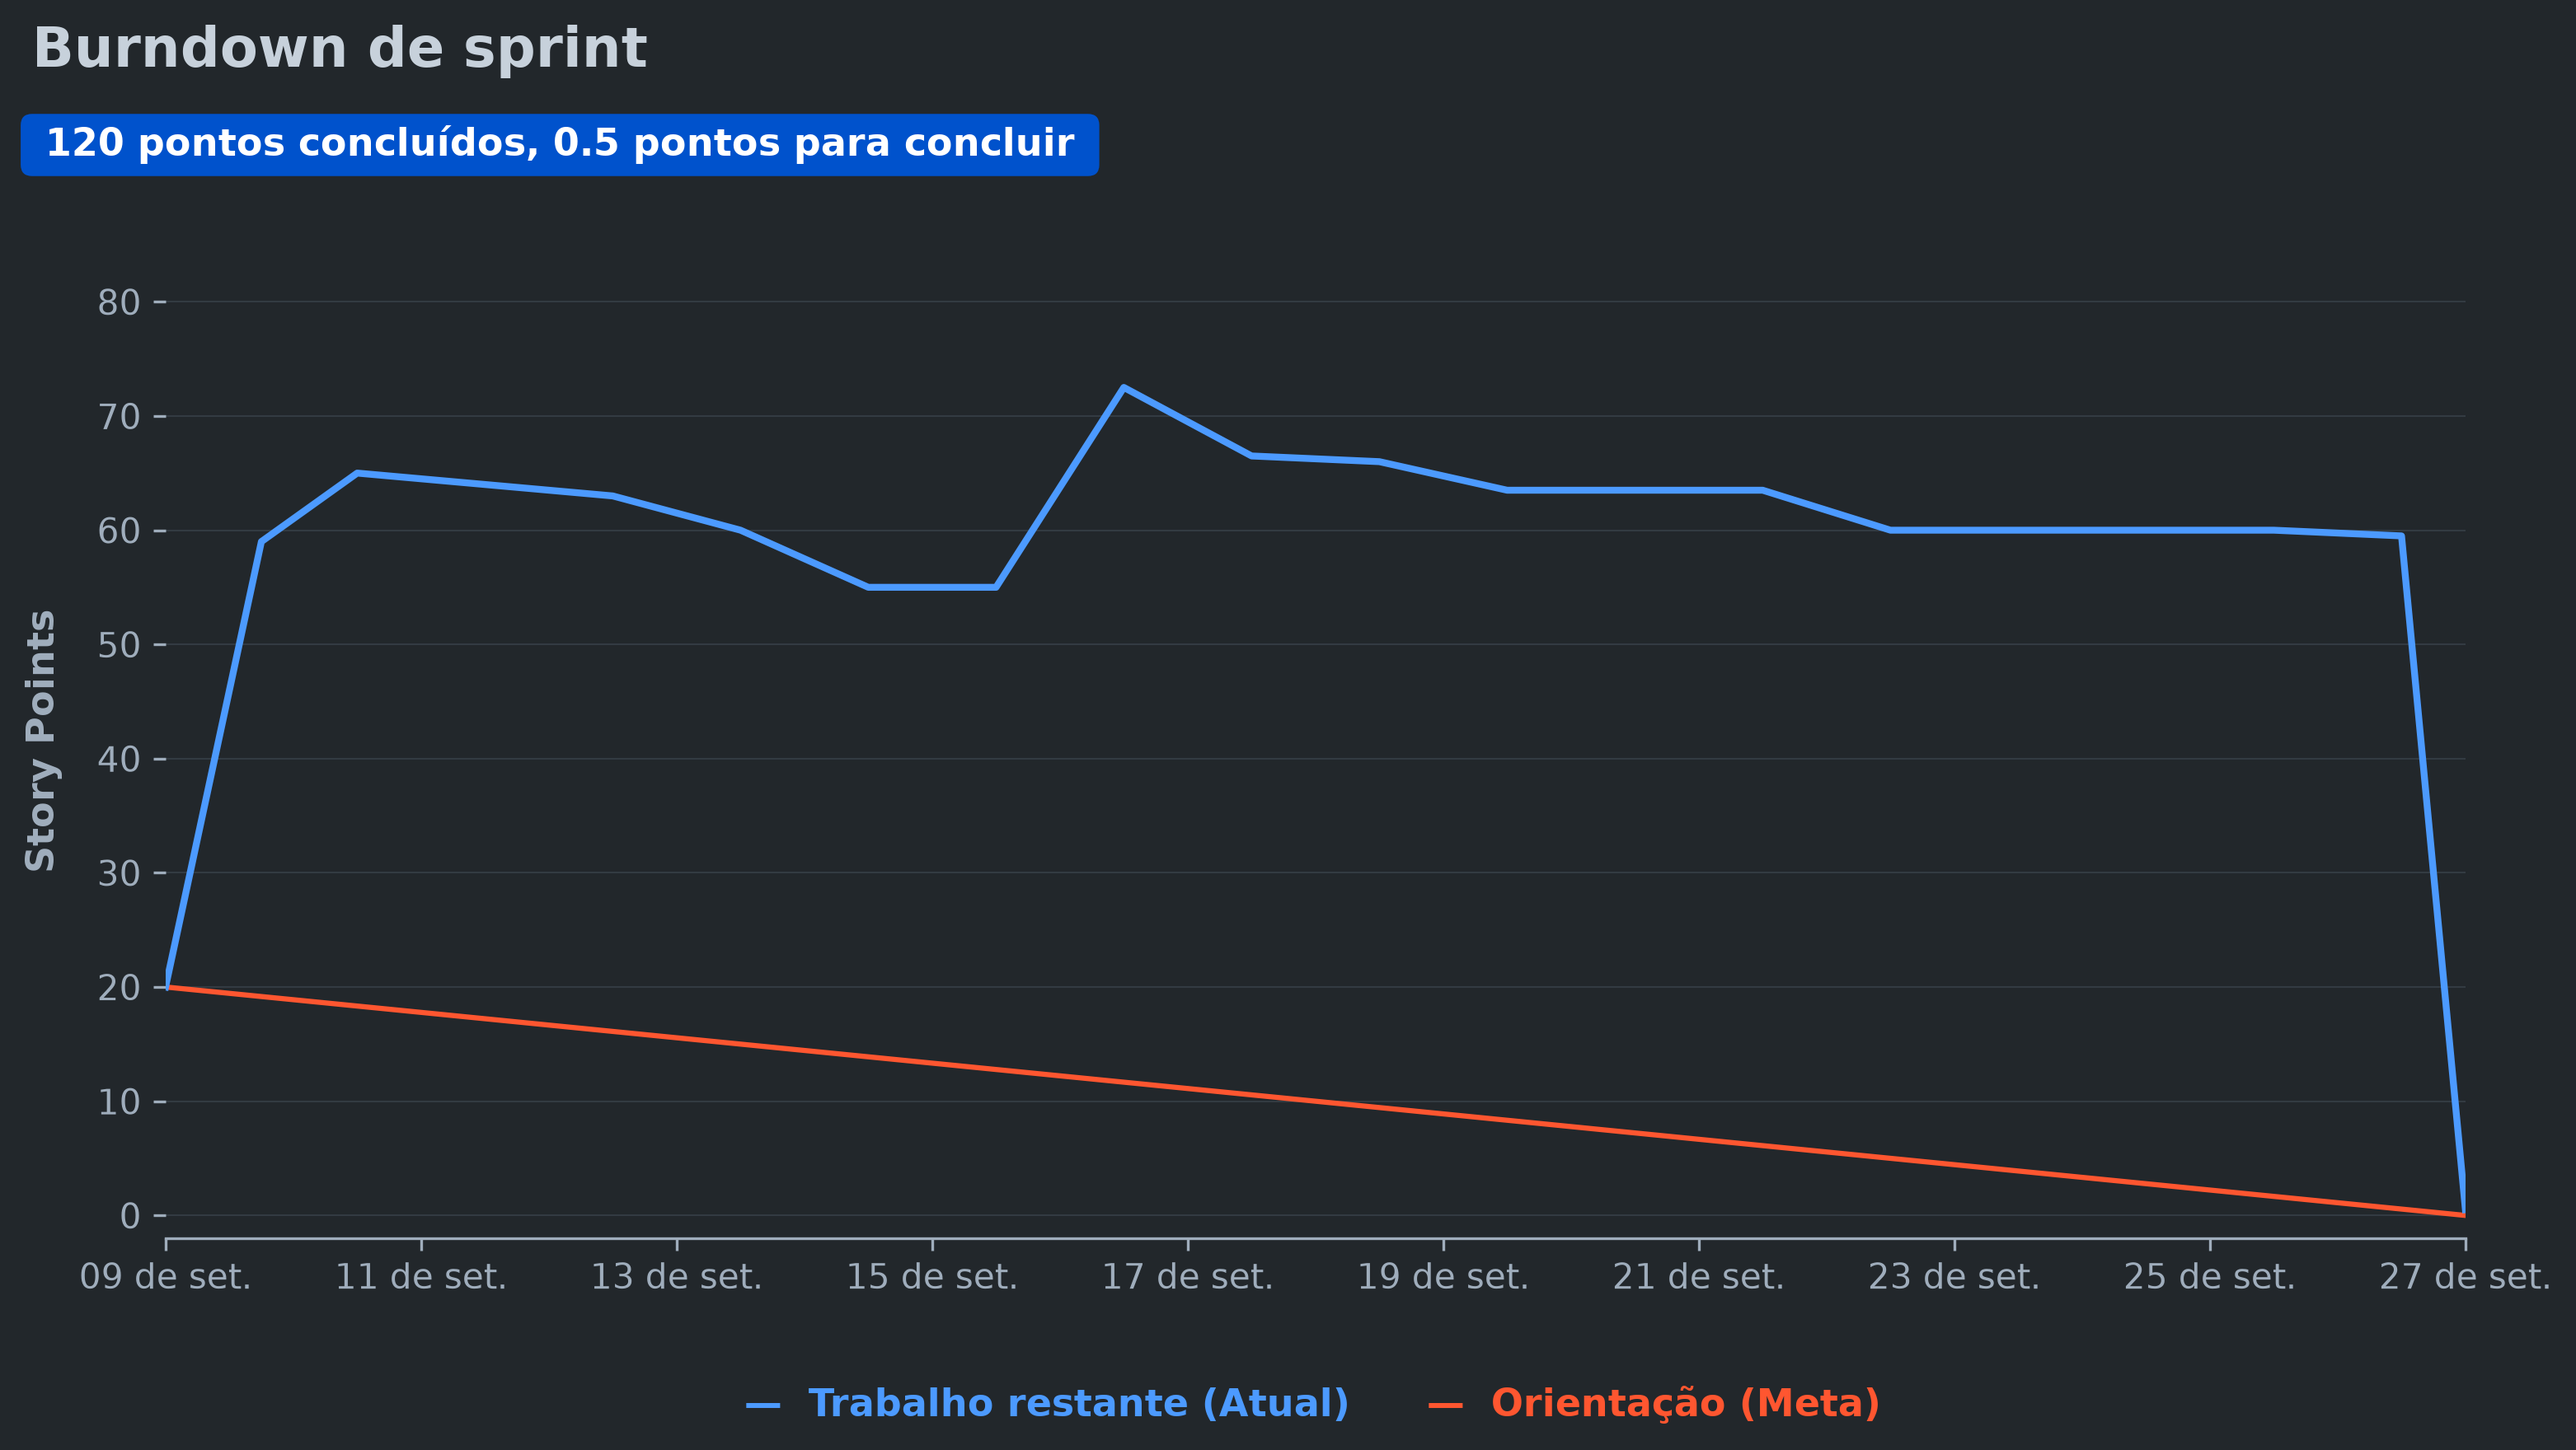
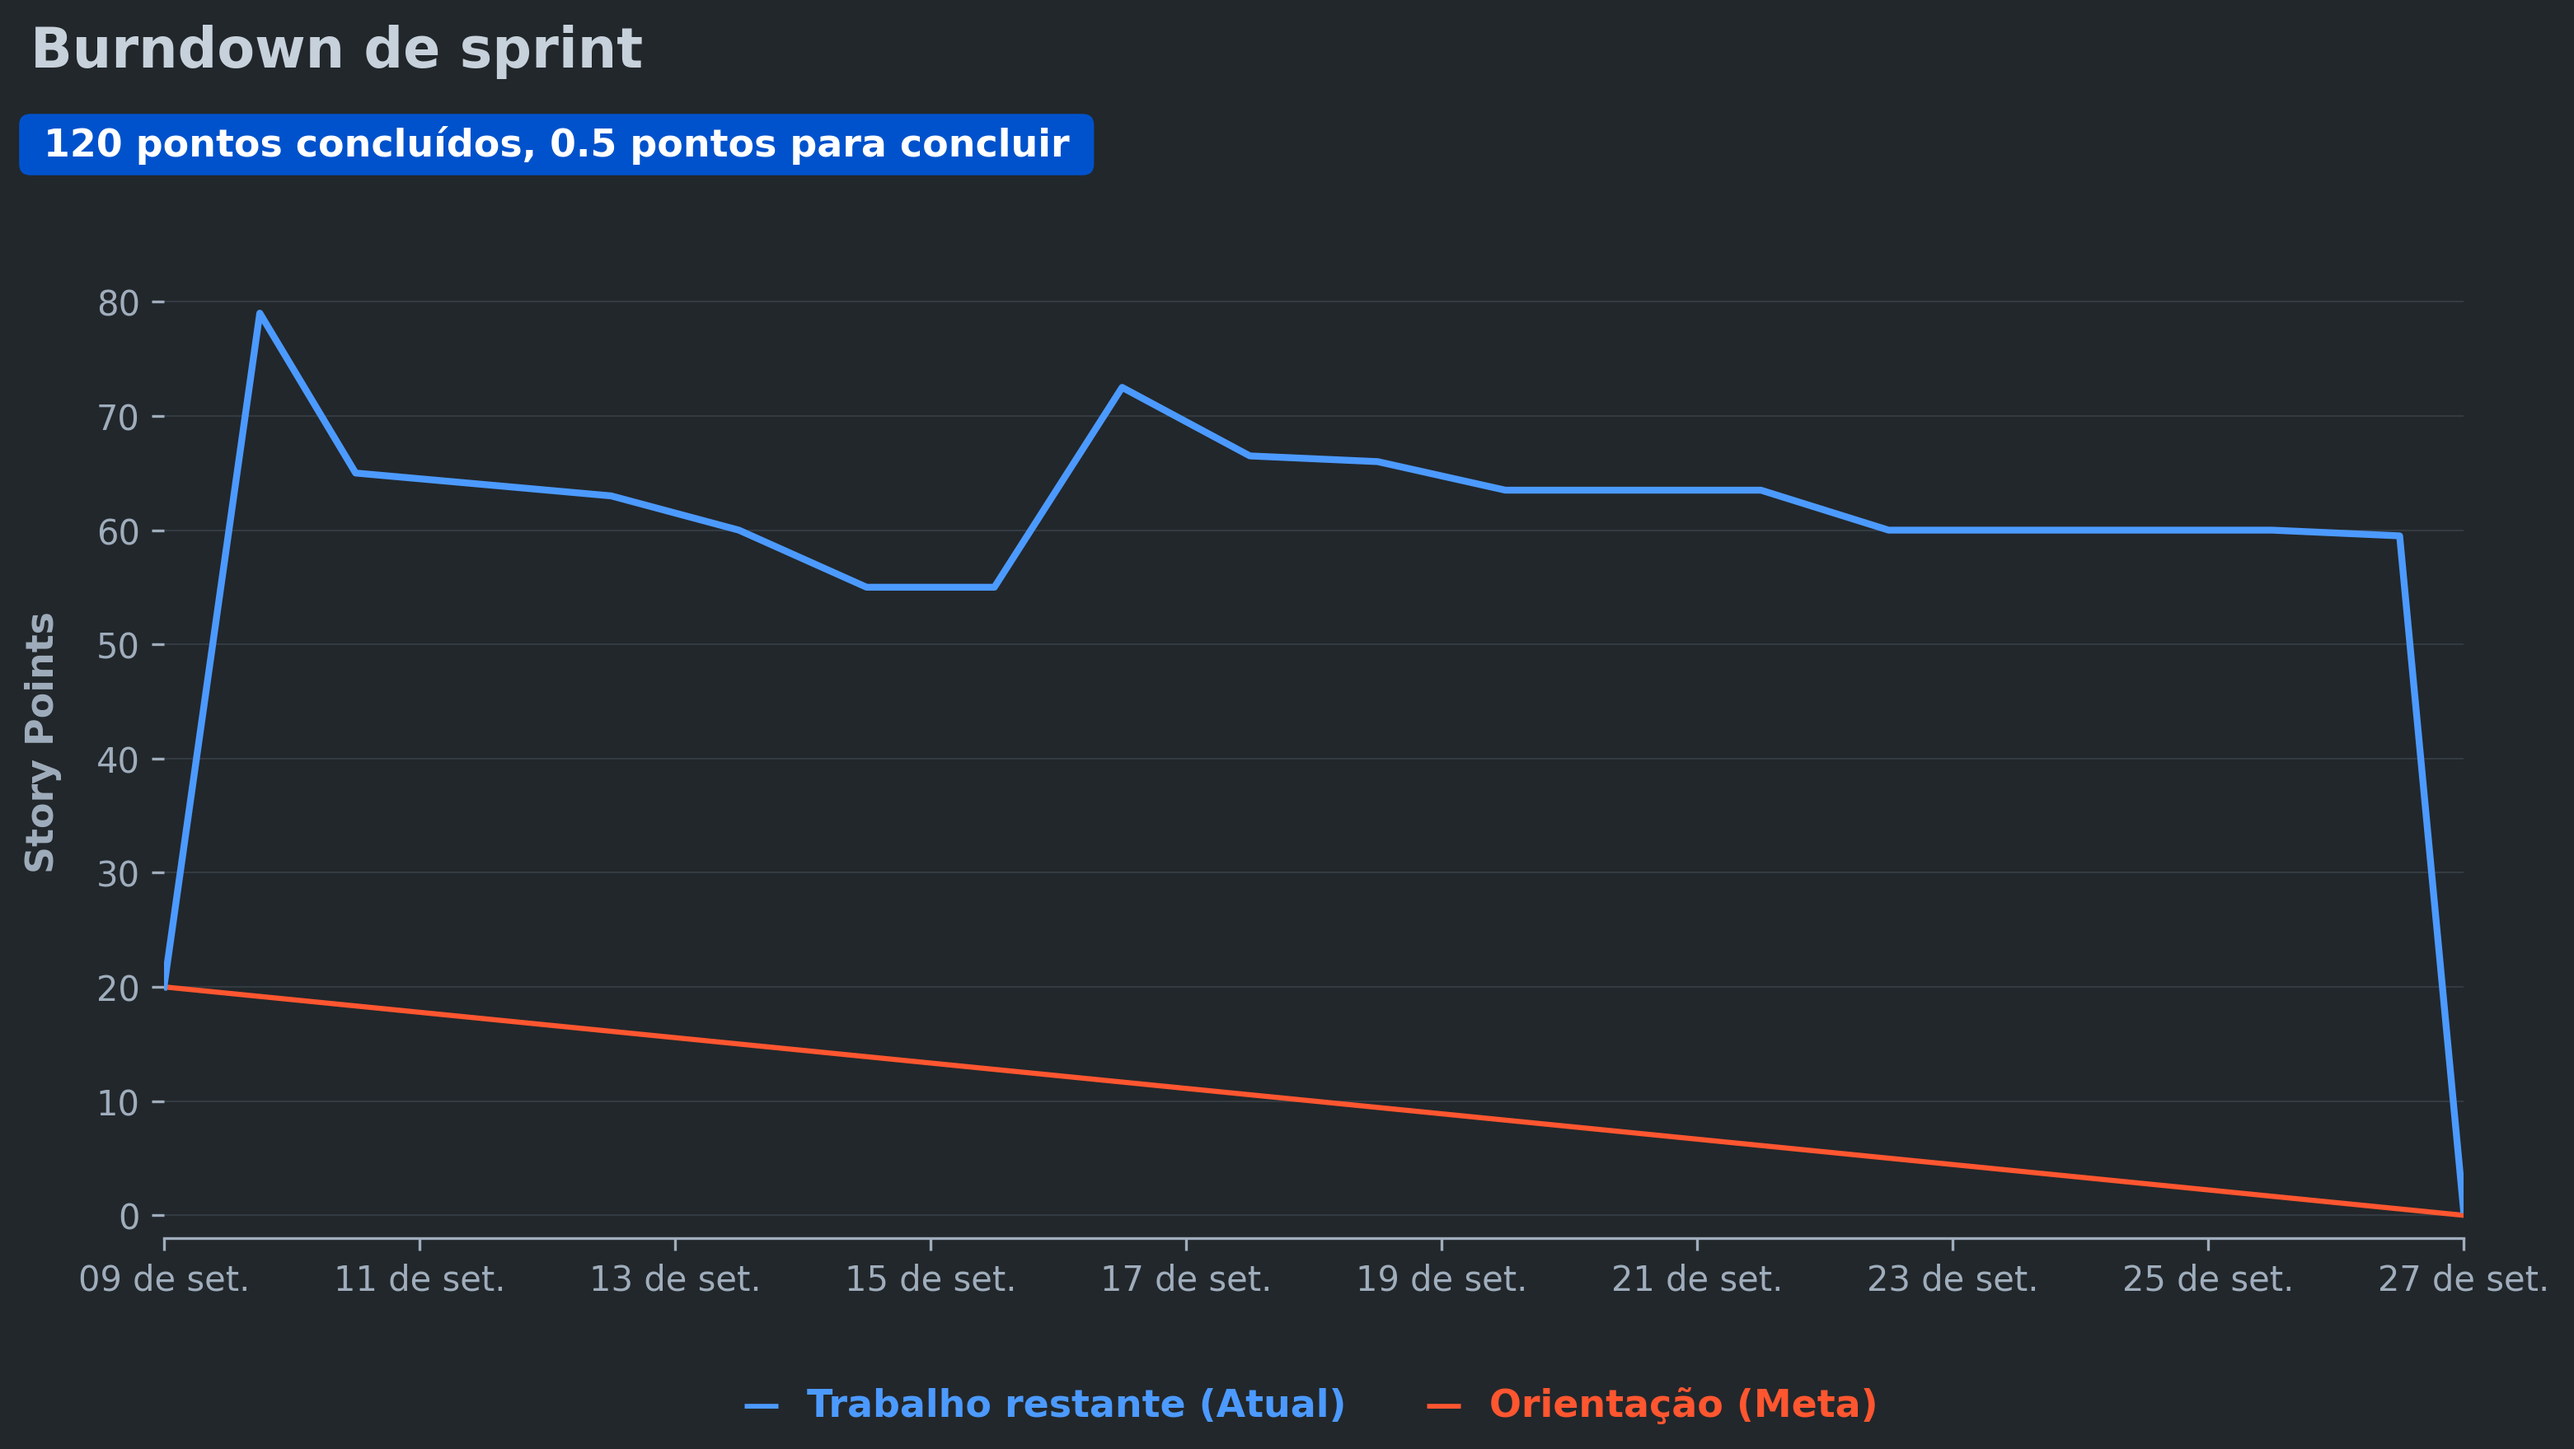
docs (MT-131): atualiza documentação do projeto

diff --git a/README.md b/README.md
@@ -32,9 +32,8 @@
 > **Relatório de Testes:** [Link](docs/processo/sprints/sprint-1/testes/Relatório%20de%20Testes%20-%20Sprint%201.md)
 > 
 > **Documentação:** [Pasta Principal](docs/cliente) • [Arquitetura](docs/cliente/tecnico/Arquitetura.md) • [Manual do Usuário](docs/cliente/usuário/Manual%20do%20Usuário.md) • [Estratégia de Branch](docs/processo/Estratégia%20de%20Branch.md) • [Padrão de Commits](docs/processo/Padrões%20de%20Commits.md)
-<!--
-> **Vídeo do Projeto:** [Youtube](https://youtu.be/)
--->
+>
+> **Vídeo do Projeto:** [Youtube](https://youtu.be/AuBWGa-bZS8)
 
 ## 🎯 Desafio <a id="desafio"></a>
 
@@ -170,7 +169,7 @@ python -m venv venv
 # Se você usa Linux/Mac:
 source venv/bin/activate 
 # Se você usa Windows:
-.\venv\Scripts\activate 	 
+.\venv\Scripts\activate
 ```
 
 **3º Instale as dependências do projeto:**
@@ -284,7 +283,7 @@ Com o Bot online, abra o Telegram, inicie a conversa com a MIA e converse em lin
         </a><br>
         <sub><b>Matheus Correia</b></sub><br>
         <sub>Dev Team</sub><br>
-        <a href="https://github.com/MATHEUSORTEGA"><img src="https://img.shields.io/badge/-GitHub-181717?style=flat-square&logo=github&logoColor=white" alt="GitHub"/></a> <a href="https://www.linkedin.com/in/"><img src="https://img.shields.io/badge/-LinkedIn-0A66C2?style=flat-square&logo=linkedin&logoColor=white" alt="LinkedIn"/></a>
+        <a href="https://github.com/MATHEUSORTEGA"><img src="https://img.shields.io/badge/-GitHub-181717?style=flat-square&logo=github&logoColor=white" alt="GitHub"/></a> <a href="https://www.linkedin.com/in/matheus-ortega-74049943b"><img src="https://img.shields.io/badge/-LinkedIn-0A66C2?style=flat-square&logo=linkedin&logoColor=white" alt="LinkedIn"/></a>
       </td>
     </tr>
   </table>

diff --git a/docs/cliente/usuário/Manual do Usuário.md b/docs/cliente/usuário/Manual do Usuário.md
@@ -1,4 +1,4 @@
-# 📘 Manual do Usuário - MIA — Assistente de Análise de Dados
+# 📘 Manual do Usuário — MIA - Assistente de Análise de Dados
 
 Bem-vindo ao manual de utilização da **MIA**! Este documento destina-se aos usuários finais (Líderes e Gerentes de Produção) e explica como interagir com a nossa assistente inteligente integrada diretamente no Telegram.
 

diff --git a/docs/cliente/tecnico/Manual de Instalação.md b/docs/cliente/tecnico/Manual de Instalação.md
@@ -1,4 +1,4 @@
-# 📕 Manual do Instalação - MIA — Assistente de Análise de Dados
+# 📕 Manual do Instalação — MIA - Assistente de Análise de Dados
 
 ## Descrição
 
